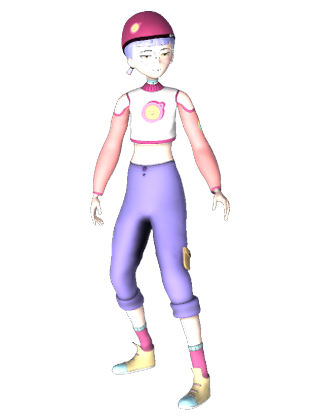
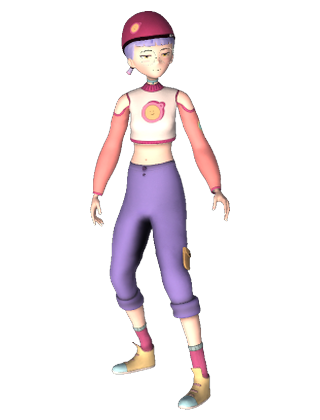
Name Entry: star badge inside the card corner; girl runner no longer pale
- Chosen-card star badge sat on the card edge between the two cards; now pinned
  inside the top-right corner (pivot 1,1, inset 12px).
- Girl (Ch29): warmer, slightly darker base colour (0.86, 0.78, 0.74), matte
  smoothness 0.15, and alpha cutoff 0.5 -> 0.9 so the see-through visor no
  longer washes her face white. Material change applies in the race too.
  Portrait re-rendered.

Verified with a Play-mode capture. EditMode 74/74.

Changed region(s): [[0.2812, 0.031, 0.7188, 0.9905]]

diff --git a/Assets/_Game/Scripts/Features/NameEntry/NameEntryController.cs b/Assets/_Game/Scripts/Features/NameEntry/NameEntryController.cs
@@ -354,7 +354,7 @@ namespace SummaRace.Features.NameEntry
             var existing = card.Find("ChosenBadge");
             if (!on) { if (existing != null) existing.gameObject.SetActive(false); return; }
             var label = SummaRace.UI.GameSkin.Badge(card, "ChosenBadge", "", SummaRace.Constants.Theme.Grass, Color.white,
-                new Vector2(1f, 1f), new Vector2(0.5f, 0.5f), new Vector2(-14f, -14f), 84f);
+                new Vector2(1f, 1f), new Vector2(1f, 1f), new Vector2(-12f, -12f), 76f);
             var badge = label.transform.parent;
             badge.gameObject.SetActive(true);
             badge.SetAsLastSibling();

diff --git a/Tools/RunnerPortraits/WarmGirl.cs b/Tools/RunnerPortraits/WarmGirl.cs
@@ -1,0 +1,13 @@
+public static class WarmGirl
+{
+    public static string Main(string r, string g, string b)
+    {
+        var mat = UnityEditor.AssetDatabase.LoadAssetAtPath<UnityEngine.Material>("Assets/Art/Characters/Materials/Ch29_Body_Cutout.mat");
+        var c = new UnityEngine.Color(float.Parse(r), float.Parse(g), float.Parse(b), 1f);
+        mat.SetColor("_BaseColor", c);
+        mat.SetFloat("_Smoothness", 0.15f); mat.SetFloat("_Cutoff", 0.9f);
+        UnityEditor.EditorUtility.SetDirty(mat);
+        UnityEditor.AssetDatabase.SaveAssets();
+        return "base=" + c;
+    }
+}
